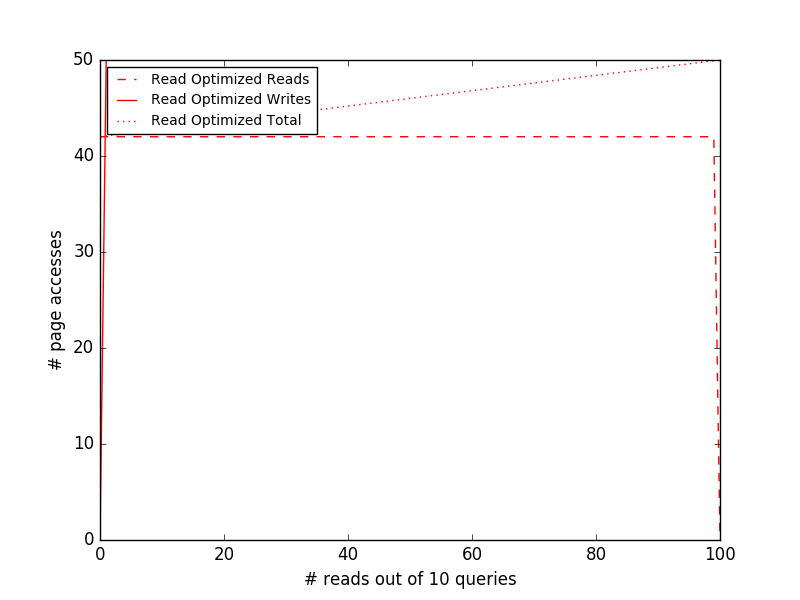
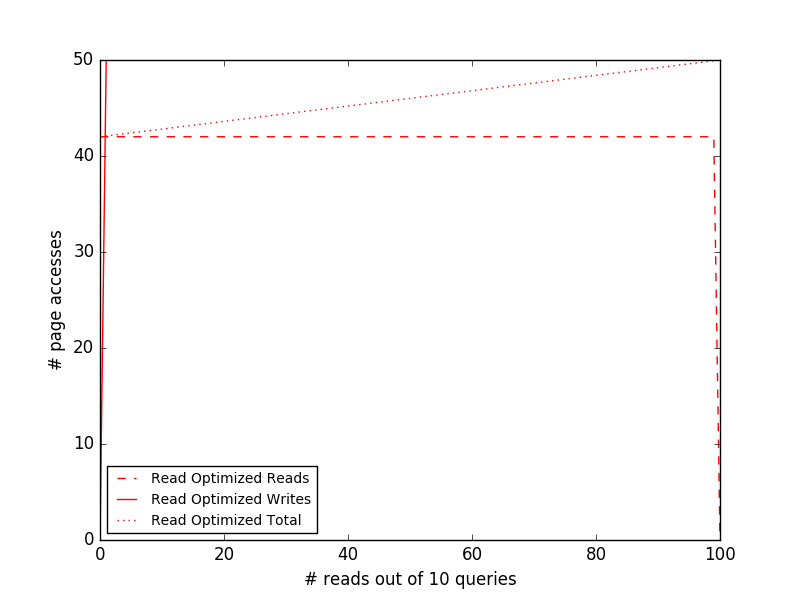
fixed legends

Changed region(s): [[0.125, 0.75, 0.4062, 0.9], [0.125, 0.09, 0.4062, 0.24]]

diff --git a/models/worst_case.py b/models/worst_case.py
@@ -267,6 +267,7 @@ def worst_case_model(fig_offset):
         ['Write Optimized Reads', 'Write Optimized Writes',
             'Write Optimized Total'],
         ['Intermediate Reads', 'Intermediate Writes', 'Intermediate Total']]
+    legend_locs = ['lower left', 'upper left', 'upper left']
     x = range(N + 1)
     costs = [[[] for i in range(3)] for j in range(3)]
 
@@ -297,7 +298,7 @@ def worst_case_model(fig_offset):
             line = plt.plot(x, cost, linestyles[i][j], label=labels[i][j])
             lines.append(line[0])
 
-        plt.legend(lines, labels[i], loc='upper left', prop={'size':10})
+        plt.legend(lines, labels[i], loc=legend_locs[i], prop={'size':10})
         plt.ylabel('# page accesses')
         plt.xlabel('# reads out of 10 queries')
         plt.savefig('worst_case_' + titles[i] + '.png')
